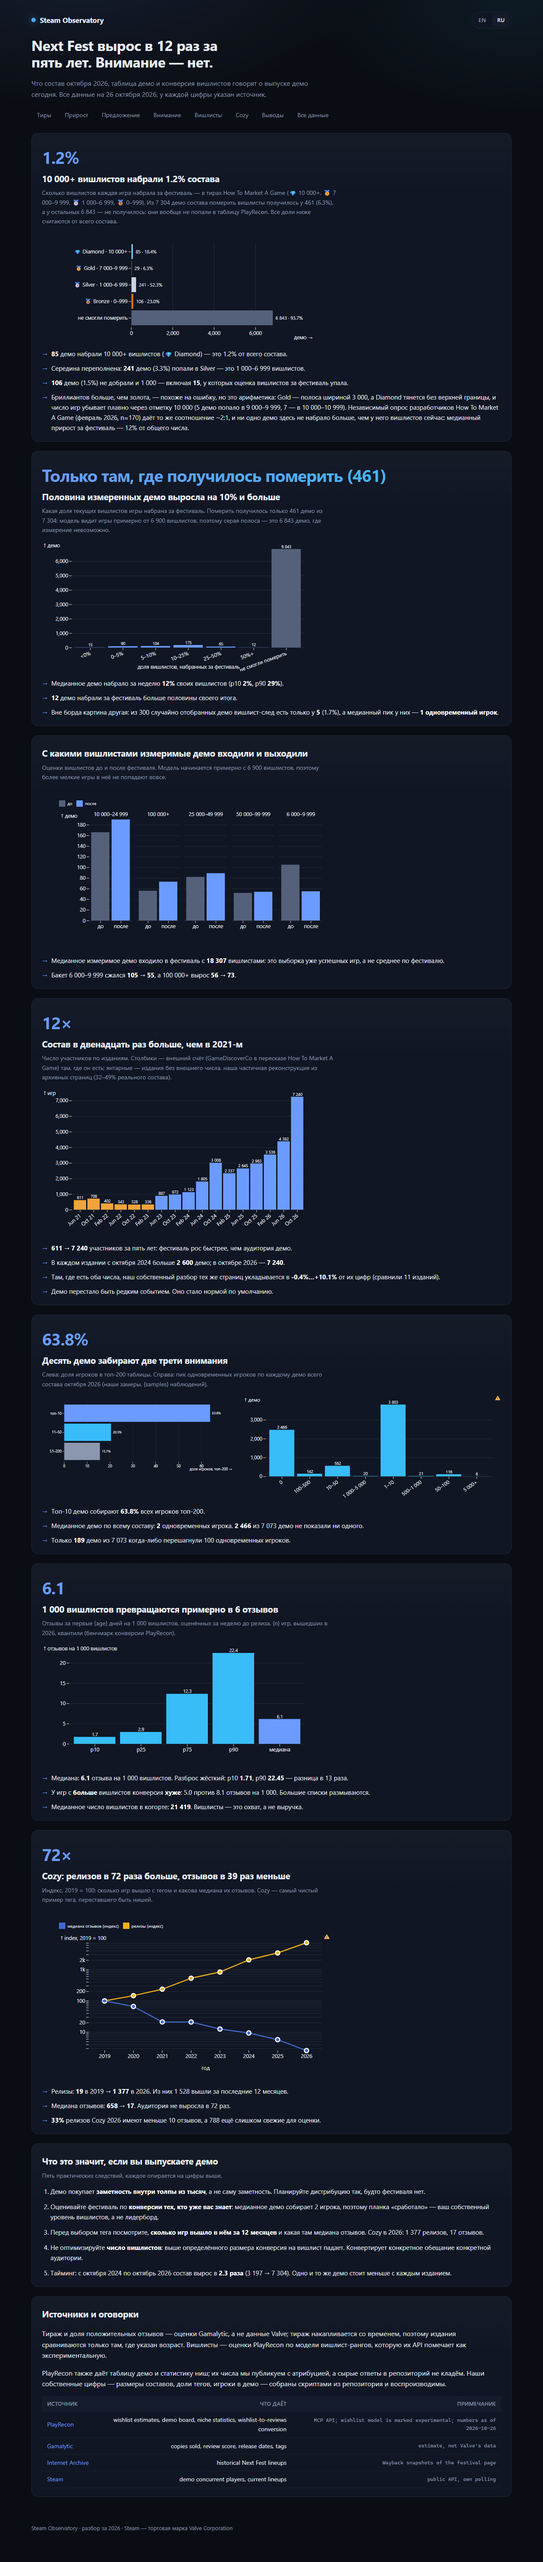
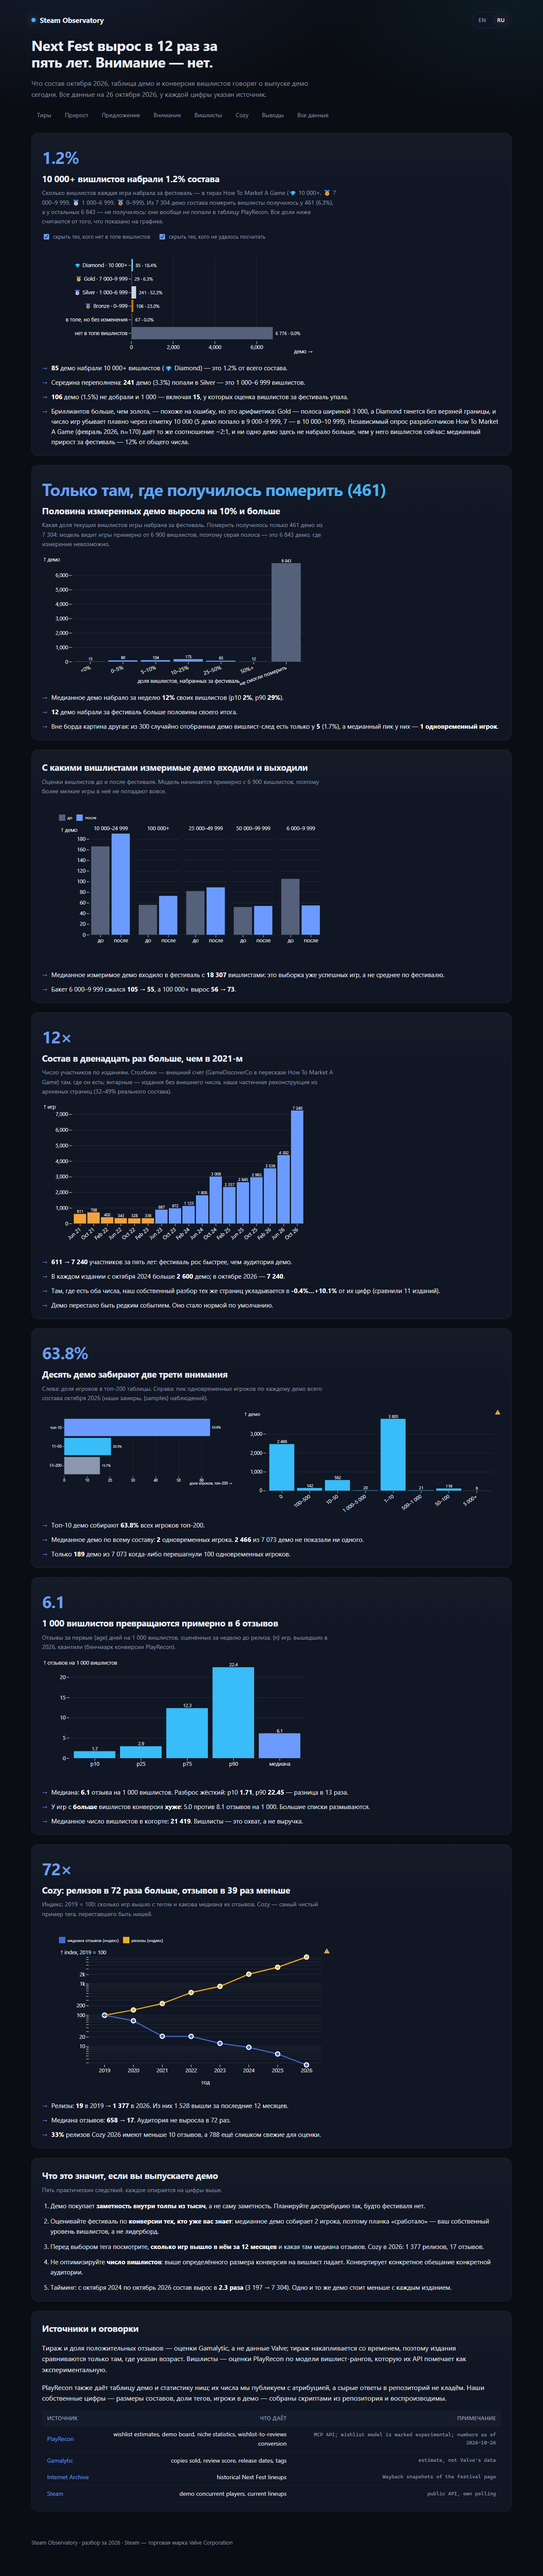
Проценты от показанного + два переключателя категорий «не посчитать»
- доли всегда считаются от суммы видимых полос (складываются в 100%)
- две отдельные категории: «нет в топе вишлистов» (6293+) и «в топе, но без изменения» (67)
- флажки вкл/выкл для каждой категории, знаменатель пересчитывается на лету
- validate_story: 24 проверки

diff --git a/site/story.js b/site/story.js
@@ -13,8 +13,10 @@ const t = (key, vars) => {
 };
 const fmt = (n) => new Intl.NumberFormat(lang === "ru" ? "ru-RU" : "en-US").format(n ?? 0);
 const el = (sel) => document.querySelector(sel);
-// «measured» — только демо с измеримым приростом; «all» — весь состав фестиваля
-let sampleMode = "measured";
+// «не посчитать» бывает двух видов: демо вообще нет в топе вишлистов, либо оно
+// там есть, но изменения позиции нет — эти категории можно скрыть по отдельности
+let showNoRank = true;
+let showNoJump = true;
 
 const T = {
   text: "#e8edf7",
@@ -83,13 +85,14 @@ function renderTiers() {
   if (!tiers.length) return;
   const total = block.total || tiers.reduce((sum, x) => sum + x.games, 0);
   const pick = (key) => tiers.find((x) => x.key === key) || { games: 0 };
-  // Доли считаем от ВСЕГО состава фестиваля: 461 — это не выборка, а те демо,
-  // где вишлисты вообще получилось померить
-  const outside = block.coverage?.outside || 0;
-  const lineup = block.coverage?.lineup || total + outside;
-  const share = (key) => ((100 * pick(key).games) / lineup).toFixed(1);
-
-  el("#k-tiers").textContent = t("tiers_kicker", { share: share("diamond") });
+  // Доли считаем от того, что видно на графике: скрывая категории «не посчитать»,
+  // пользователь меняет знаменатель — проценты всегда складываются в 100%
+  const cov = block.coverage || {};
+  const lineup = cov.lineup || total;
+  const inChart = cov.in_chart || total;
+  const noRank = cov.no_rank ?? Math.max(0, lineup - inChart);
+  const noJump = cov.no_jump ?? Math.max(0, inChart - total);
+  let share = () => "0.0";
 
   const COLORS = { diamond: "#7dd3fc", gold: "#fbbf24", silver: "#cbd5e1", bronze: "#d97706" };
   const rangeLabel = (x) =>
@@ -106,19 +109,20 @@ function renderTiers() {
     color: COLORS[x.key] || T.accent,
   }));
 
-  if (outside) {
-    rows.push({
-      label: t("outside_bar"),
-      games: outside,
-      share: (100 * outside) / lineup,
-      color: "#55607a",
-    });
+  if (showNoJump && noJump) {
+    rows.push({ label: t("nojump_bar"), games: noJump, share: 0, color: "#3d4657" });
   }
+  if (showNoRank && noRank) {
+    rows.push({ label: t("norank_bar"), games: noRank, share: 0, color: "#55607a" });
+  }
+  const shown = rows.reduce((sum, r) => sum + r.games, 0);
+  share = (key) => ((100 * pick(key).games) / shown).toFixed(1);
+  el("#k-tiers").textContent = t("tiers_kicker", { share: share("diamond") });
   el("#hint-tiers").innerHTML = t("tiers_hint", {
     total: fmt(total),
-    outside: fmt(outside),
+    outside: fmt(noRank + noJump),
     lineup: fmt(lineup),
-    share: ((100 * total) / lineup).toFixed(1),
+    share: ((100 * total) / shown).toFixed(1),
   });
 
   el("#chart-tiers").replaceChildren(
@@ -511,24 +515,18 @@ function renderWl() {
 
 // --- переключатель выборки ---------------------------------------------
 function setupSwitch() {
-  const box = el("#sample-switch");
-  if (!box) return;
-  const cov = story.tiers?.coverage || {};
-  box.querySelector('[data-sample="measured"]').textContent = t("sample_measured", {
-    n: fmt(cov.measured ?? story.tiers?.total ?? 0),
-  });
-  box.querySelector('[data-sample="all"]').textContent = t("sample_all", {
-    n: fmt(cov.lineup ?? 0),
-  });
-  for (const b of box.querySelectorAll("button")) {
-    b.classList.toggle("on", b.dataset.sample === sampleMode);
-    b.onclick = () => {
-      sampleMode = b.dataset.sample;
-      renderTiers();
-      renderGains();
-      setupSwitch();
-    };
-  }
+  const rank = el("#show-no-rank");
+  const jump = el("#show-no-jump");
+  if (!rank || !jump) return;
+  rank.checked = showNoRank;
+  jump.checked = showNoJump;
+  const rerender = () => {
+    showNoRank = rank.checked;
+    showNoJump = jump.checked;
+    renderTiers();
+  };
+  rank.onchange = rerender;
+  jump.onchange = rerender;
 }
 
 function renderTakeaways() {

diff --git a/site/story-i18n.js b/site/story-i18n.js
@@ -14,11 +14,15 @@ export const S = {
 
     tiers_title: "1.2% of the lineup earned 10,000+ wishlists",
     tiers_hint:
-      "Wishlists each demo earned during the festival, in the tiers used by How To Market A Game (💎 10,000+, 🥇 7,000–9,999, 🥈 1,000–6,999, 🥉 0–999). Of the {lineup} demos in the lineup we could measure wishlists for {total} ({share}%); for the other {outside} we could not measure anything — they never entered the PlayRecon board. Every share below is of the full lineup.",
+      "Wishlists each demo earned during the festival, in the tiers used by How To Market A Game (💎 10,000+, 🥇 7,000–9,999, 🥈 1,000–6,999, 🥉 0–999). Of the {lineup} demos in the lineup we could measure wishlists for {total} ({share}%); for the other {outside} we could not measure anything — they never entered the PlayRecon board. Every share below is of what is shown on the chart.",
     nav_gains: "Gains",
     sample_measured: "Only where we could measure ({n})",
     sample_all: "All demos ({n})",
     outside_bar: "couldn't measure",
+    norank_bar: "not in the wishlist top",
+    nojump_bar: "in the top, no change",
+    toggle_no_rank: "hide demos outside the wishlist top",
+    toggle_no_jump: "hide demos we couldn't measure",
     gains_title: "Half of the demos we could measure grew by 10% or more",
     gains_hint:
       "Share of a demo's current wishlists that was earned during the festival. We could measure only {measured} of {lineup} lineup demos — the model sees games from about 6,900 wishlists upward, so the grey bar is the {outside} demos where measurement was impossible.",
@@ -126,11 +130,15 @@ export const S = {
 
     tiers_title: "10 000+ вишлистов набрали 1.2% состава",
     tiers_hint:
-      "Сколько вишлистов каждая игра набрала за фестиваль — в тирах How To Market A Game (💎 10 000+, 🥇 7 000–9 999, 🥈 1 000–6 999, 🥉 0–999). Из {lineup} демо состава померить вишлисты получилось у {total} ({share}%), а у остальных {outside} — не получилось: они вообще не попали в таблицу PlayRecon. Все доли ниже считаются от всего состава.",
+      "Сколько вишлистов каждая игра набрала за фестиваль — в тирах How To Market A Game (💎 10 000+, 🥇 7 000–9 999, 🥈 1 000–6 999, 🥉 0–999). Из {lineup} демо состава померить вишлисты получилось у {total} ({share}%), а у остальных {outside} — не получилось: они вообще не попали в таблицу PlayRecon. Все доли ниже считаются от того, что показано на графике.",
     nav_gains: "Прирост",
     sample_measured: "Только там, где получилось померить ({n})",
     sample_all: "Все демо ({n})",
     outside_bar: "не смогли померить",
+    norank_bar: "нет в топе вишлистов",
+    nojump_bar: "в топе, но без изменения",
+    toggle_no_rank: "скрыть тех, кого нет в топе вишлистов",
+    toggle_no_jump: "скрыть тех, кого не удалось посчитать",
     gains_title: "Половина измеренных демо выросла на 10% и больше",
     gains_hint:
       "Какая доля текущих вишлистов игры набрана за фестиваль. Померить получилось только {measured} демо из {lineup}: модель видит игры примерно от 6 900 вишлистов, поэтому серая полоса — это {outside} демо, где измерение невозможно.",

diff --git a/site/style.css b/site/style.css
@@ -142,7 +142,18 @@ h3 { font-size: 15px; margin: 24px 0 10px; color: var(--text); font-weight: 600;
   color: #0b1220;
   font-weight: 600;
 }
+.toggles {
+  display: flex;
+  flex-wrap: wrap;
+  gap: 8px 18px;
+  margin: 0 0 12px;
+  color: var(--muted);
+  font-size: 13px;
+}
+.toggles label { display: inline-flex; align-items: center; gap: 6px; cursor: pointer; }
+.toggles input { accent-color: var(--accent); }
 .chart svg [aria-label="tip"] path { fill: var(--panel-2); stroke: var(--line); }
+
 .chart svg [aria-label="tip"] text,
 .chart svg [aria-label="tip"] tspan { fill: var(--text); }
 

diff --git a/site/story.html b/site/story.html
@@ -36,6 +36,10 @@
     <p class="kicker" id="k-tiers"></p>
     <h2 data-i18n="tiers_title"></h2>
     <p class="hint" id="hint-tiers"></p>
+    <div class="toggles" id="tier-toggles">
+      <label><input type="checkbox" id="show-no-rank" checked> <span data-i18n="toggle_no_rank"></span></label>
+      <label><input type="checkbox" id="show-no-jump" checked> <span data-i18n="toggle_no_jump"></span></label>
+    </div>
     <div id="chart-tiers" class="chart"><div class="skel skel-chart-sm"></div></div>
     <ul class="takeaways" id="take-tiers"></ul>
   </section>

diff --git a/scripts/validate_story.py b/scripts/validate_story.py
@@ -100,8 +100,8 @@ with sync_playwright() as pw:
     check("первый блок — тиры вишлистов", kickers and kickers[0].endswith("%"), f"первое={kickers[:1]}")
 
     tier_bars = page.eval_on_selector_all("#chart-tiers svg rect", "els => els.length")
-    check("в графике тиров четыре тира плюс «не смогли померить»", tier_bars == 5,
-          f"полос={tier_bars}")
+    check("в графике тиров шесть полос (4 тира + две категории «не посчитать»)",
+          tier_bars == 6, f"полос={tier_bars}")
 
     # число полос в графике составов = число изданий в fests.json: пропажа
     # издания (как февраль 2025) раньше проходила незамеченной
@@ -121,11 +121,26 @@ with sync_playwright() as pw:
     check("в графике до/после две полосы на бакет", wl_bars >= 10, f"полос={wl_bars}")
 
     tiers_hint = page.text_content("#hint-tiers") or ""
-    check("в подписи тиров прямо сказано, сколько не смогли померить",
+    check("в подписи тиров сказано, сколько демо не удалось посчитать",
           "could not measure" in tiers_hint and "461" in tiers_hint, tiers_hint[:70])
-    kicker_tiers = (page.text_content("#k-tiers") or "").strip()
-    check("доля бриллиантов считается от всего состава", kicker_tiers.startswith("1.2"),
-          f"кикер={kicker_tiers}")
+    kicker_all = (page.text_content("#k-tiers") or "").strip()
+    check("доля считается от показанного: 1.2% при шести полосах", kicker_all.startswith("1.2"),
+          f"кикер={kicker_all}")
+
+    page.uncheck("#show-no-rank")
+    page.uncheck("#show-no-jump")
+    page.wait_for_timeout(400)
+    bars_meas = page.eval_on_selector_all("#chart-tiers svg rect", "els => els.length")
+    kicker_meas = (page.text_content("#k-tiers") or "").strip()
+    check("скрыв «не посчитать», остаётся четыре тира", bars_meas == 4, f"полос={bars_meas}")
+    check("и доля пересчитывается от показанного", kicker_meas.startswith("18.4"),
+          f"кикер={kicker_meas}")
+
+    page.check("#show-no-rank")
+    page.check("#show-no-jump")
+    page.wait_for_timeout(400)
+    bars_back2 = page.eval_on_selector_all("#chart-tiers svg rect", "els => els.length")
+    check("категории возвращаются", bars_back2 == 6, f"полос={bars_back2}")
 
     tiers_text = page.text_content("#take-tiers") or ""
     check("тиры описаны в выводах", "Diamond" in tiers_text and "Silver" in tiers_text,

diff --git a/scripts/build_story_data.py b/scripts/build_story_data.py
@@ -219,12 +219,17 @@ if tiers_block is not None:
     tiers_block["coverage"] = {
         "lineup": lineup,
         "measured": measured,
+        "in_chart": (gains_data or {}).get("rows_with_wishlists") or measured,
         "outside": (lineup - measured) if lineup else None,
         "floor": min((g.get("wl_est") or 0) for g in rows_all) if rows_all else None,
         "median_before": sorted(g["wl_est_before"] for g in rows_all
                                 if g.get("wl_est_before"))[len(rows_all) // 2]
         if rows_all else None,
     }
+
+    in_chart = (gains_data or {}).get("rows_with_wishlists") or measured
+    tiers_block["coverage"]["no_jump"] = max(0, in_chart - measured)
+    tiers_block["coverage"]["no_rank"] = max(0, (lineup or 0) - in_chart)
 
 # результат случайной выборки вне борда (scripts/aggregate_outside_sample.py)
 outside_report = CACHE / "outside_sample_report.json"
